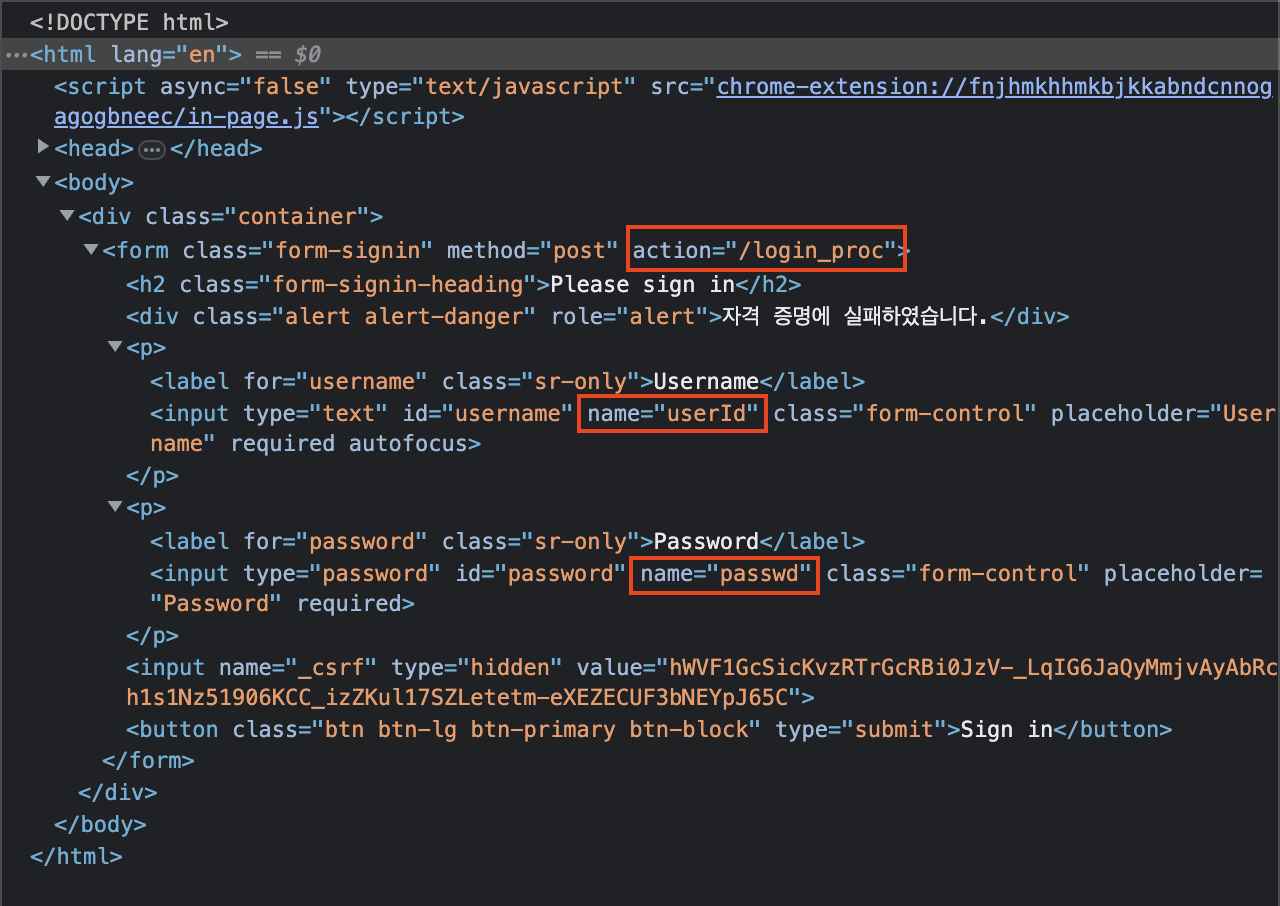
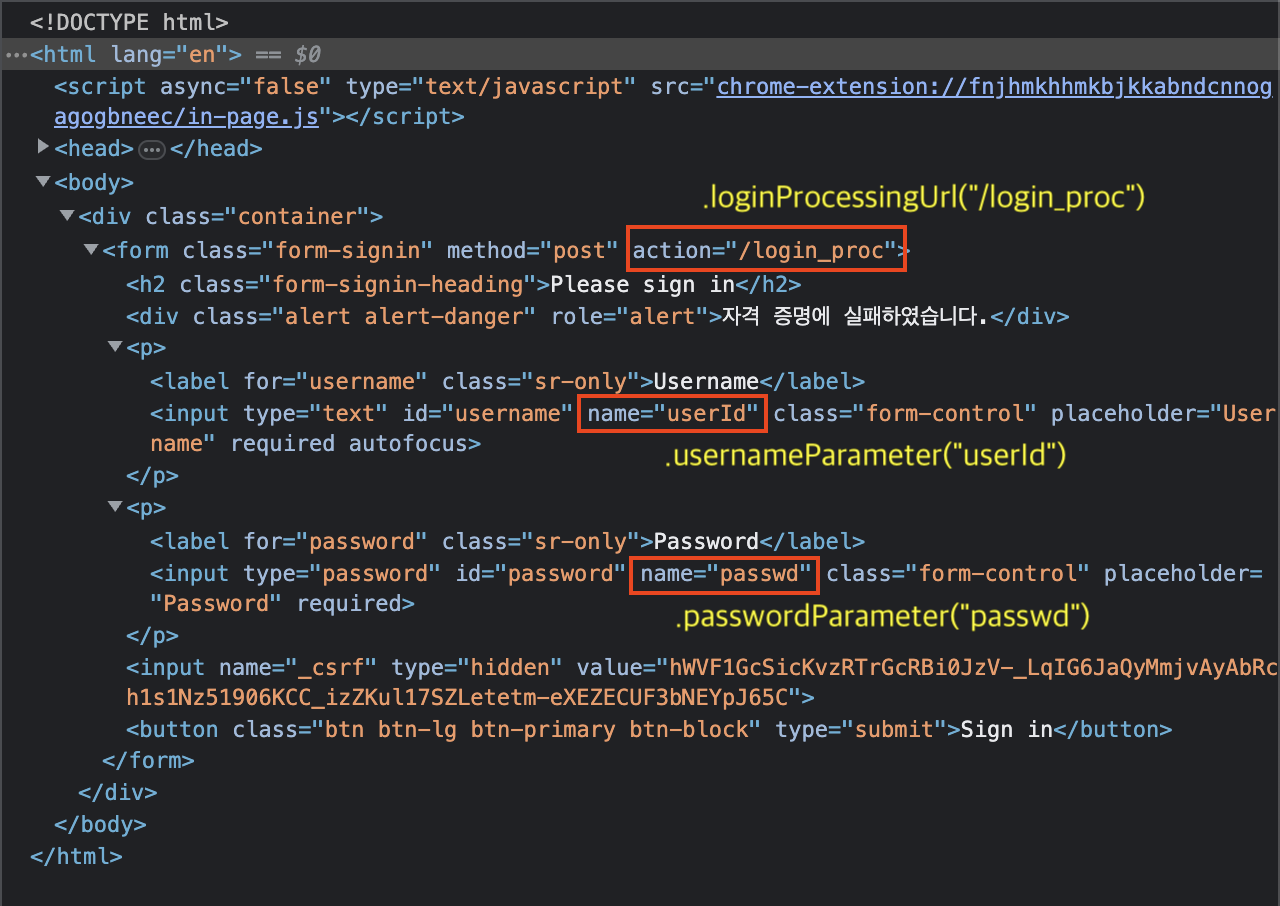
.

Changed region(s): [[0.5625, 0.1854, 0.9062, 0.2472], [0.5312, 0.649, 0.8438, 0.7108], [0.5312, 0.4945, 0.8438, 0.5254]]

diff --git a/_posts/spring/2023-05-16-spring-security-basic2.md b/_posts/spring/2023-05-16-spring-security-basic2.md
@@ -1,0 +1,71 @@
+---
+layout: single
+title:  "[spring security basic] 2. Form login 인증"
+categories: 
+    - spring  #카테고리
+tag: [Spring, Spring security] #태그
+toc: true  #오른쪽에 있는 목차
+toc_sticky: true #목차 고정
+author_profile: true  #왼쪽에 자기 소개란 프로필을 이 페이지에 들어갈때 끄는 기능
+sidebar:
+    nav: "sidebar-category" #navigation.yml에 있는 docs를 뜻한다.
+search: true  #이 페이지는 검색에 나옴.
+---
+
+## login 설정
+
+### 1. login Configuration 설정
+
+```java
+@Configuration
+@EnableWebSecurity
+public class SecurityConfig {
+
+    @Bean
+    public SecurityFilterChain fileterChain(HttpSecurity http) throws Exception {
+
+        http.formLogin()
+            .loginPage("/loginPage") // 이걸 안쓰면 spring security에서 제공하는 기본 로그인 페이지로 가게 된다.
+            .defaultSuccessUrl("/") // 로그인 성공 후 이동페이지
+            .failureUrl("/login") // 로그인 실패 시 이동페이지
+            .usernameParameter("userId") // 아이디 파라미터명 변경
+            .passwordParameter("passwd") // 비번 파라미터명 변경
+            .loginProcessingUrl("/login_proc") // 로그인 폼에서 제출 버튼을 누르면 호출될 URL
+            .successHandler(new AuthenticationSuccessHandler() { // 로그인 성공 후 동작 설정
+                // 이 successHandler를 쓰면, defaultSuccessUrl은 작동을 하지 않는다.
+                @Override
+                public void onAuthenticationSuccess(HttpServletRequest request, HttpServletResponse response,
+                    Authentication authentication) throws IOException, ServletException {
+                    //Authentication : 인증에 성공했을 때 최종적으로 그 인증의 결과를 담은 인증 객체
+            
+                    System.out.println("authentication : " + authentication.getName()); //인증에 성공한 사용자 이름
+            
+                    response.sendRedirect("/");
+                    //인증에 성공하고 root페이지로 이동
+                    // 여기서 successHandler가 정의되면 .defaultSuccessUrl("/") 은 작동을 안한다.
+                }
+            })
+            .failureHandler(new AuthenticationFailureHandler() {
+                @Override
+                public void onAuthenticationFailure(HttpServletRequest request, HttpServletResponse response,
+                    AuthenticationException exception) throws IOException, ServletException {
+                    //AuthenticationException : 인증 예외의 객체
+            
+                    System.out.println("exception : " + exception.getMessage());
+            
+                    response.sendRedirect("/login");
+                }
+            })
+            .permitAll()
+        ;
+
+        return http.build();
+    }
+}
+
+```
+
+### 2. 설정 후 출력결과
+
+![](/assets/images/2023-05/15/login.png)
+

diff --git a/_posts/spring/2023-05-15-spring-security-basic1.md b/_posts/spring/2023-05-15-spring-security-basic1.md
@@ -14,13 +14,13 @@ search: true  #이 페이지는 검색에 나옴.
 
 ## 스프링 시큐리티 세팅
 
-### Spring Boot 기반으로 개발하는 Spring Security (정수원 선생님) 인강 - 세팅
+### 1. Spring Boot 기반으로 개발하는 Spring Security (정수원 선생님) 인강 - 세팅
 
 인강에서는 jdk가 1.8이상을 기준으로 만드는데, 내가 쓰는 spring boot는 3.0으로 java 17이상 무조건 써야하는 상황이다.
 
 그렇다고 해서 spring boot를 예전 버전으로 돌리고 싶지 않기 때문에 3.0을 그대로 java 17을 써볼 것이다.
 
-### SecurityConfig 설정
+### 2. SecurityConfig 설정
 
 인강에서는
 
@@ -33,4 +33,51 @@ extends WebSecurityConfigurerAdapter
 WebSecurityConfigurerAdapter를 상속받고 configure 메소드를 오버라이딩 하는 방식을 쓰지 않도록 바뀌었다.
 
 대신, @Bean으로 커스텀한 설정을 등록하도록 만들면 된다.
+
+
+<< 인강 - 원본 >>
+
+```java
+@Configuration
+@EnableWebSecurity
+public class SecurityConfig extends WebSecurityConfigurerAdapter {
+
+    @Override
+    protected void configure(HttpSecurity http) throws Exception { 
+        http
+            .authorizeRequests()			
+            .anyRequest().authenticated()		
+        .and()
+            .formLogin(); 			
+}
+```
+
+<< java 17 버전 >>
+
+```java
+@Configuration
+@EnableWebSecurity
+public class SecurityConfig {
+
+    @Bean
+    public SecurityFilterChain fileterChain(HttpSecurity http) throws Exception {
+        http
+            .authorizeHttpRequests(auth -> auth
+                .anyRequest().authenticated()
+            );
+        http.formLogin();
+        return http.build();
+    }
+}
+```
+
+>> 바뀐 버전에서 `http.formLogin();`부분에서 따로 떨어뜨리지 않고 원본처럼 `.and()` 를 써도 된다. 가독성을 위해서 Login과 authorize를 나눠서 작성 한 것 뿐이다.
+
+
+보면 바뀐 것들이 좀 있다. 
+
+앞에 말했 듯이, 클래스 부분에서 `WebSecurityConfigurerAdapter`를 상속받지 않도록 바뀌었고 오버라이딩을 하지 않는 대신 Bean으로 등록하게 바뀌었다.
+
+그리고 Bean을 보면 `SecurityFilterChain` 을 써서 설정을 커스텀한다. 그리고 spring security 6 (spring boot 3.0)부터 람다식을 쓸 수 있다. 그래서 람다식으로 써보았다.
+
 

diff --git a/_posts/spring/2023-05-16-spring-security-basic3.md b/_posts/spring/2023-05-16-spring-security-basic3.md
@@ -1,0 +1,59 @@
+---
+layout: single
+title:  "[spring security basic] 3. Form logout 인증"
+categories: 
+    - spring  #카테고리
+tag: [Spring, Spring security] #태그
+toc: true  #오른쪽에 있는 목차
+toc_sticky: true #목차 고정
+author_profile: true  #왼쪽에 자기 소개란 프로필을 이 페이지에 들어갈때 끄는 기능
+sidebar:
+    nav: "sidebar-category" #navigation.yml에 있는 docs를 뜻한다.
+search: true  #이 페이지는 검색에 나옴.
+---
+
+## login 설정
+
+### 1. login Configuration 설정
+
+```java
+@Configuration
+@EnableWebSecurity
+public class SecurityConfig {
+
+    @Bean
+    public SecurityFilterChain fileterChain(HttpSecurity http) throws Exception {
+
+        http
+            .logout()
+            .logoutUrl("/logout") // default 는 "logout"이다. spring security 의 logout 처리는 post 방식으로 처리된다.
+            .logoutSuccessUrl("/login") // 로그아웃 성공 시 이동할 페이지만 알려줌
+            .addLogoutHandler(new LogoutHandler() {
+                @Override
+                public void logout(HttpServletRequest request, HttpServletResponse response,
+                    Authentication authentication) {
+                    HttpSession session = request.getSession();
+                    session.invalidate(); //세션 무효화
+                }
+            })
+            .logoutSuccessHandler(new LogoutSuccessHandler() {
+                //.logoutSuccessUrl()과 비슷하다. 다만 .logoutSuccessHandler()이 좀 더 다채롭게 구현이 가능하다.
+                @Override
+                public void onLogoutSuccess(HttpServletRequest request, HttpServletResponse response,
+                    Authentication authentication) throws IOException, ServletException {
+                    response.sendRedirect("/login");
+                }
+            })
+            .deleteCookies("remember-me") //서버에서 만든 쿠키를 삭제
+        ;
+        
+        return http.build();
+    }
+}
+
+```
+
+### 2. 설정 후 출력결과
+
+![](/assets/images/2023-05/15/logout.png)
+
